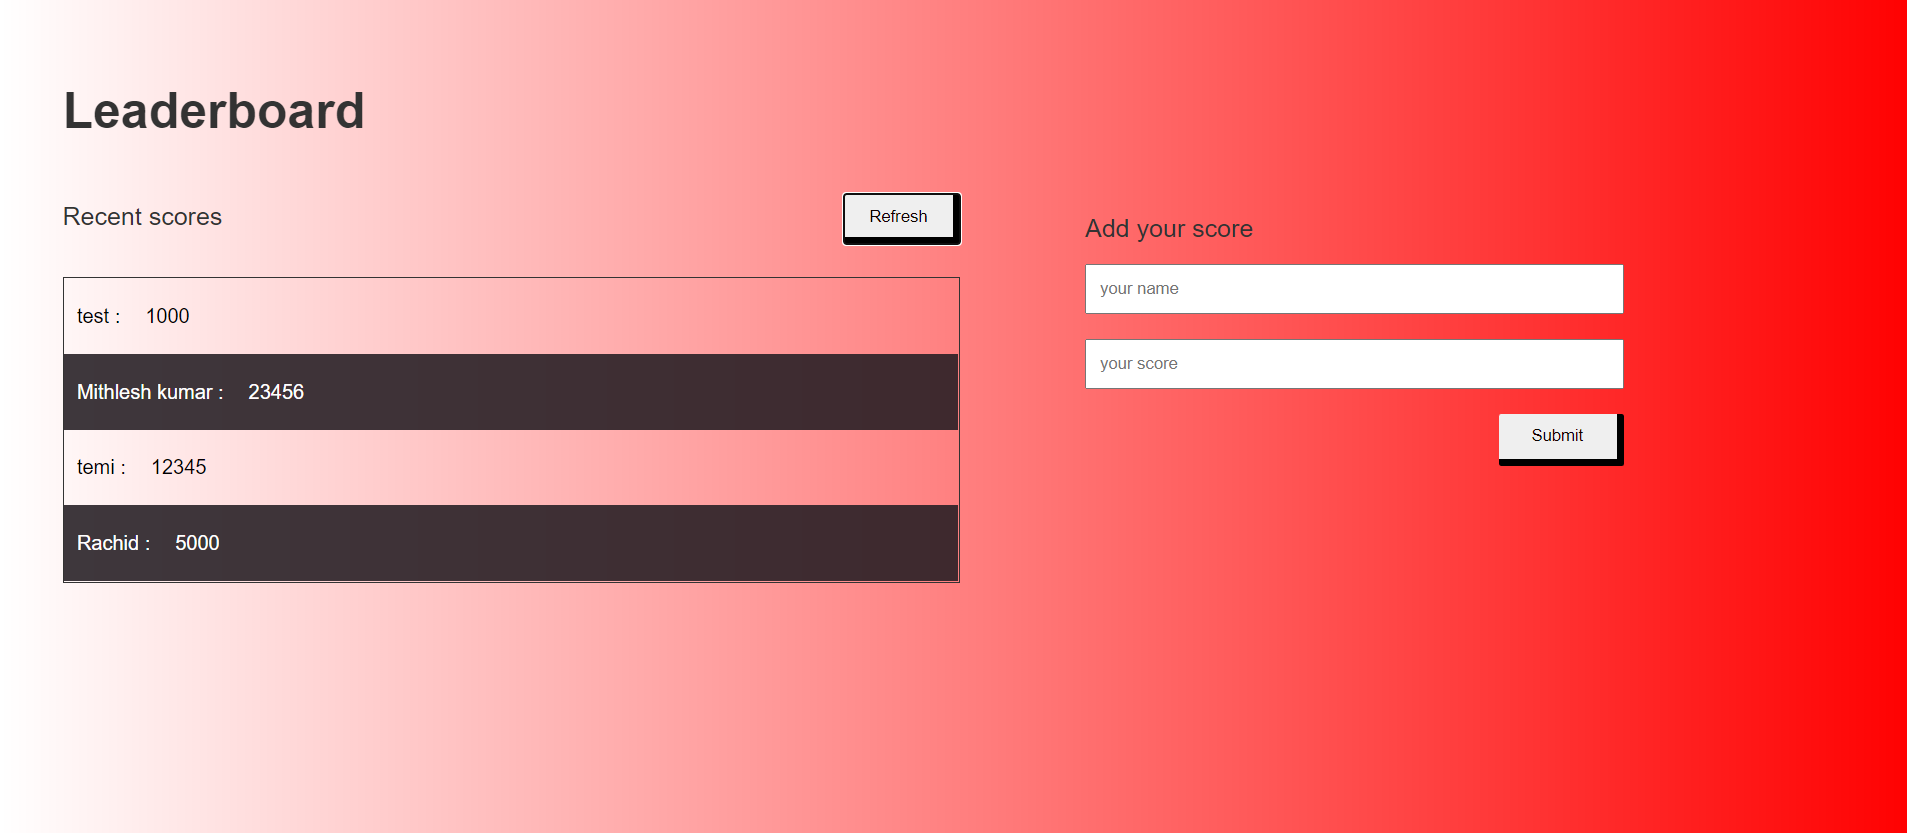
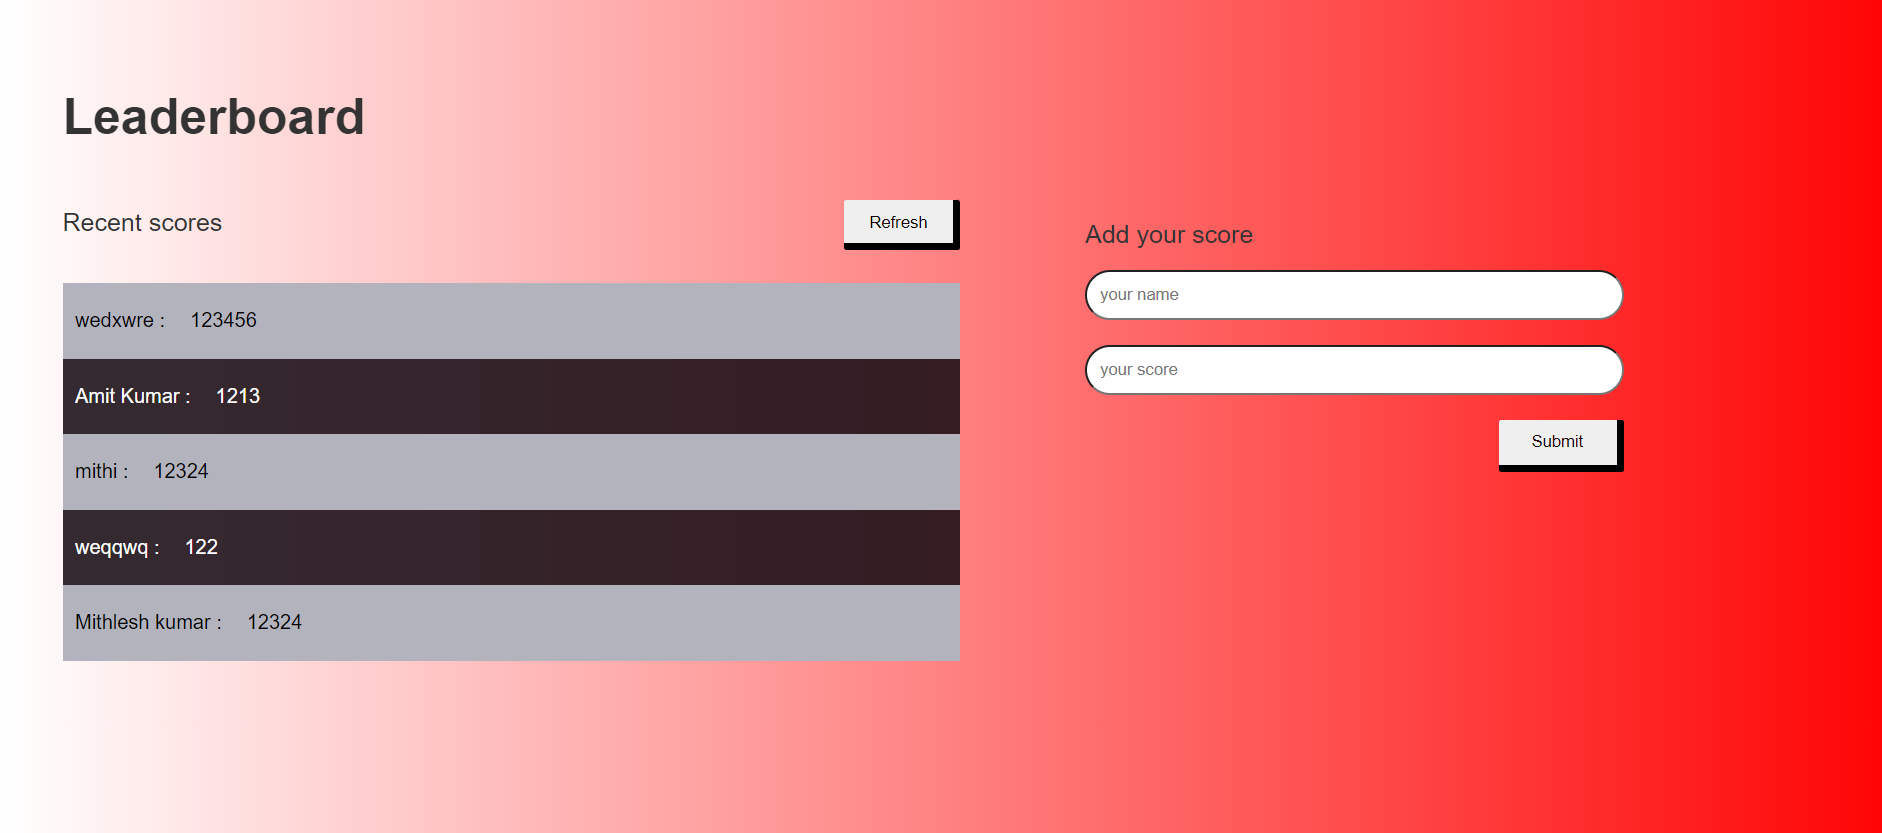
updated style

diff --git a/dist/main.js b/dist/main.js
@@ -16,7 +16,7 @@
 /***/ ((module, __webpack_exports__, __webpack_require__) => {
 
 "use strict";
-eval("__webpack_require__.r(__webpack_exports__);\n/* harmony export */ __webpack_require__.d(__webpack_exports__, {\n/* harmony export */   \"default\": () => (__WEBPACK_DEFAULT_EXPORT__)\n/* harmony export */ });\n/* harmony import */ var _node_modules_css_loader_dist_runtime_noSourceMaps_js__WEBPACK_IMPORTED_MODULE_0__ = __webpack_require__(/*! ../node_modules/css-loader/dist/runtime/noSourceMaps.js */ \"./node_modules/css-loader/dist/runtime/noSourceMaps.js\");\n/* harmony import */ var _node_modules_css_loader_dist_runtime_noSourceMaps_js__WEBPACK_IMPORTED_MODULE_0___default = /*#__PURE__*/__webpack_require__.n(_node_modules_css_loader_dist_runtime_noSourceMaps_js__WEBPACK_IMPORTED_MODULE_0__);\n/* harmony import */ var _node_modules_css_loader_dist_runtime_api_js__WEBPACK_IMPORTED_MODULE_1__ = __webpack_require__(/*! ../node_modules/css-loader/dist/runtime/api.js */ \"./node_modules/css-loader/dist/runtime/api.js\");\n/* harmony import */ var _node_modules_css_loader_dist_runtime_api_js__WEBPACK_IMPORTED_MODULE_1___default = /*#__PURE__*/__webpack_require__.n(_node_modules_css_loader_dist_runtime_api_js__WEBPACK_IMPORTED_MODULE_1__);\n// Imports\n\n\nvar ___CSS_LOADER_EXPORT___ = _node_modules_css_loader_dist_runtime_api_js__WEBPACK_IMPORTED_MODULE_1___default()((_node_modules_css_loader_dist_runtime_noSourceMaps_js__WEBPACK_IMPORTED_MODULE_0___default()));\n___CSS_LOADER_EXPORT___.push([module.id, \"@import url(https://fonts.googleapis.com/css2?family=Inter:wght@100&family=Lato:ital,wght@0,100;0,300;0,400;0,700;1,100&family=Poppins:ital,wght@0,200;0,300;0,400;0,500;0,700;1,600&display=swap);\"]);\n// Module\n___CSS_LOADER_EXPORT___.push([module.id, \"html {\\r\\n  box-sizing: border-box;\\r\\n}\\r\\n\\r\\nbody {\\r\\n  margin: 0;\\r\\n  padding: 0;\\r\\n  font-family: 'Roboto', sans-serif;\\r\\n  background-image:\\r\\n    linear-gradient(\\r\\n       to right,\\r\\n     rgba(255, 0, 0, 0),\\r\\n     rgba(255, 0, 0, 1)\\r\\n    );\\r\\n}\\r\\n\\r\\nsection {\\r\\n  display: grid;\\r\\n  margin: 50px;\\r\\n  grid-template-columns: 1fr;\\r\\n}\\r\\n\\r\\n.btn {\\r\\n  border-radius: 2px;\\r\\n  border: none;\\r\\n  color: rgb(15, 1, 1);\\r\\n  border-right: 6px solid black;\\r\\n  border-bottom: 6px solid black;\\r\\n}\\r\\n\\r\\nform .btn {\\r\\n  width: 100px;\\r\\n  padding: 10px;\\r\\n  align-self: flex-end;\\r\\n  text-align: center;\\r\\n}\\r\\n\\r\\n.btn:hover {\\r\\n  background-color: rgb(134, 150, 118);\\r\\n  transform: scale(1.3);\\r\\n}\\r\\n\\r\\n.score-display {\\r\\n  border: 1.5px solid #333;\\r\\n  margin-top: 20px;\\r\\n}\\r\\n\\r\\nsection .container {\\r\\n  display: flex;\\r\\n  gap: 100px;\\r\\n}\\r\\n\\r\\n.score-container {\\r\\n  display: flex;\\r\\n  flex-direction: column;\\r\\n  width: 50%;\\r\\n}\\r\\n\\r\\n.score-container h1 {\\r\\n  font-size: 40px;\\r\\n  font-weight: 570;\\r\\n  color: #333;\\r\\n}\\r\\n\\r\\n.score-container .title {\\r\\n  display: flex;\\r\\n  justify-content: space-between;\\r\\n}\\r\\n\\r\\nform input {\\r\\n  padding: 10px;\\r\\n}\\r\\n\\r\\n.title .btn {\\r\\n  height: 40px;\\r\\n  padding: 10px 20px;\\r\\n  margin-top: 10px;\\r\\n}\\r\\n\\r\\n.score-display ul {\\r\\n  display: flex;\\r\\n  flex-direction: column;\\r\\n  margin: 0;\\r\\n  padding: 0;\\r\\n  list-style-type: none;\\r\\n}\\r\\n\\r\\nli {\\r\\n  display: flex;\\r\\n  gap: 20px;\\r\\n  padding: 5px 10px;\\r\\n}\\r\\n\\r\\nli:nth-child(even) {\\r\\n  background: #241e23e1;\\r\\n  color: #fff;\\r\\n}\\r\\n\\r\\nsection .form-container {\\r\\n  margin-top: 122px;\\r\\n  width: 30%;\\r\\n}\\r\\n\\r\\nsection h2 {\\r\\n  font-size: 20px;\\r\\n  color: #333;\\r\\n  font-weight: 400;\\r\\n}\\r\\n\\r\\nsection form {\\r\\n  display: flex;\\r\\n  flex-direction: column;\\r\\n  gap: 20px;\\r\\n}\\r\\n\", \"\"]);\n// Exports\n/* harmony default export */ const __WEBPACK_DEFAULT_EXPORT__ = (___CSS_LOADER_EXPORT___);\n\n\n//# sourceURL=webpack://webpack-demo/./src/style.css?./node_modules/css-loader/dist/cjs.js");
+eval("__webpack_require__.r(__webpack_exports__);\n/* harmony export */ __webpack_require__.d(__webpack_exports__, {\n/* harmony export */   \"default\": () => (__WEBPACK_DEFAULT_EXPORT__)\n/* harmony export */ });\n/* harmony import */ var _node_modules_css_loader_dist_runtime_noSourceMaps_js__WEBPACK_IMPORTED_MODULE_0__ = __webpack_require__(/*! ../node_modules/css-loader/dist/runtime/noSourceMaps.js */ \"./node_modules/css-loader/dist/runtime/noSourceMaps.js\");\n/* harmony import */ var _node_modules_css_loader_dist_runtime_noSourceMaps_js__WEBPACK_IMPORTED_MODULE_0___default = /*#__PURE__*/__webpack_require__.n(_node_modules_css_loader_dist_runtime_noSourceMaps_js__WEBPACK_IMPORTED_MODULE_0__);\n/* harmony import */ var _node_modules_css_loader_dist_runtime_api_js__WEBPACK_IMPORTED_MODULE_1__ = __webpack_require__(/*! ../node_modules/css-loader/dist/runtime/api.js */ \"./node_modules/css-loader/dist/runtime/api.js\");\n/* harmony import */ var _node_modules_css_loader_dist_runtime_api_js__WEBPACK_IMPORTED_MODULE_1___default = /*#__PURE__*/__webpack_require__.n(_node_modules_css_loader_dist_runtime_api_js__WEBPACK_IMPORTED_MODULE_1__);\n// Imports\n\n\nvar ___CSS_LOADER_EXPORT___ = _node_modules_css_loader_dist_runtime_api_js__WEBPACK_IMPORTED_MODULE_1___default()((_node_modules_css_loader_dist_runtime_noSourceMaps_js__WEBPACK_IMPORTED_MODULE_0___default()));\n___CSS_LOADER_EXPORT___.push([module.id, \"@import url(https://fonts.googleapis.com/css2?family=Inter:wght@100&family=Lato:ital,wght@0,100;0,300;0,400;0,700;1,100&family=Poppins:ital,wght@0,200;0,300;0,400;0,500;0,700;1,600&display=swap);\"]);\n// Module\n___CSS_LOADER_EXPORT___.push([module.id, \"html {\\r\\n  box-sizing: border-box;\\r\\n}\\r\\n\\r\\nbody {\\r\\n  margin: 0;\\r\\n  padding: 0;\\r\\n  font-family: 'Roboto', sans-serif;\\r\\n  background-image:\\r\\n    linear-gradient(\\r\\n      to right,\\r\\n      rgba(255, 0, 0, 0),\\r\\n      rgba(255, 0, 0, 1)\\r\\n    );\\r\\n}\\r\\n\\r\\nsection {\\r\\n  display: grid;\\r\\n  margin: 50px;\\r\\n  grid-template-columns: 1fr;\\r\\n}\\r\\n\\r\\n.btn {\\r\\n  border-radius: 2px;\\r\\n  border: none;\\r\\n  color: rgb(15, 1, 1);\\r\\n  border-right: 6px solid black;\\r\\n  border-bottom: 6px solid black;\\r\\n}\\r\\n\\r\\nform .btn {\\r\\n  width: 100px;\\r\\n  padding: 10px;\\r\\n  align-self: flex-end;\\r\\n  text-align: center;\\r\\n}\\r\\n\\r\\n.btn:hover {\\r\\n  background-color: rgb(134, 150, 118);\\r\\n  transform: scale(1.3);\\r\\n}\\r\\n\\r\\n.score-display {\\r\\n  margin-top: 20px;\\r\\n}\\r\\n\\r\\nsection .container {\\r\\n  display: flex;\\r\\n  gap: 100px;\\r\\n}\\r\\n\\r\\n.score-container {\\r\\n  display: flex;\\r\\n  flex-direction: column;\\r\\n  width: 50%;\\r\\n}\\r\\n\\r\\n.score-container h1 {\\r\\n  font-size: 40px;\\r\\n  font-weight: 570;\\r\\n  color: #333;\\r\\n}\\r\\n\\r\\n.score-container .title {\\r\\n  display: flex;\\r\\n  justify-content: space-between;\\r\\n}\\r\\n\\r\\nform input {\\r\\n  padding: 10px;\\r\\n  border-radius: 20px;\\r\\n}\\r\\n\\r\\n.title .btn {\\r\\n  height: 40px;\\r\\n  padding: 10px 20px;\\r\\n  margin-top: 10px;\\r\\n}\\r\\n\\r\\n.score-display ul {\\r\\n  display: flex;\\r\\n  flex-direction: column;\\r\\n  margin: 0;\\r\\n  padding: 0;\\r\\n  list-style-type: none;\\r\\n}\\r\\n\\r\\nli {\\r\\n  display: flex;\\r\\n  gap: 20px;\\r\\n  padding: 5px 10px;\\r\\n}\\r\\n\\r\\nli:nth-child(odd) {\\r\\n  background: rgb(179, 179, 190);\\r\\n}\\r\\n\\r\\nli:nth-child(even) {\\r\\n  background: #1a0f17e1;\\r\\n  color: #fff;\\r\\n}\\r\\n\\r\\nsection .form-container {\\r\\n  margin-top: 122px;\\r\\n  width: 30%;\\r\\n}\\r\\n\\r\\nsection h2 {\\r\\n  font-size: 20px;\\r\\n  color: #333;\\r\\n  font-weight: 400;\\r\\n}\\r\\n\\r\\nsection form {\\r\\n  display: flex;\\r\\n  flex-direction: column;\\r\\n  gap: 20px;\\r\\n}\\r\\n\", \"\"]);\n// Exports\n/* harmony default export */ const __WEBPACK_DEFAULT_EXPORT__ = (___CSS_LOADER_EXPORT___);\n\n\n//# sourceURL=webpack://webpack-demo/./src/style.css?./node_modules/css-loader/dist/cjs.js");
 
 /***/ }),
 
@@ -125,7 +125,7 @@ eval("\n\n/* istanbul ignore next  */\nfunction styleTagTransform(css, styleElem
   \********************/
 /***/ ((module) => {
 
-eval("const url = 'https://us-central1-js-capstone-backend.cloudfunctions.net/api/games/WBvUTDoh47FFuK3CA1Ak/scores/';\nasync function getScores() {\n  const response = await fetch(url);\n  const data = await response.json();\n  return data.result;\n}\n\nasync function addScore(obj) {\n  const response = await fetch(url, {\n    method: 'POST',\n    headers: {\n      'Content-Type': 'application/json',\n    },\n    body: JSON.stringify(obj),\n  });\n  const data = await response.json();\n  return data.result;\n}\nmodule.exports = { getScores, addScore };\n\n\n//# sourceURL=webpack://webpack-demo/./src/api.js?");
+eval("const url = 'https://us-central1-js-capstone-backend.cloudfunctions.net/api/games/ XMJOy0iH4T6Wjm6GMYwE/scores/';\nasync function getScores() {\n  const response = await fetch(url);\n  const data = await response.json();\n  return data.result;\n}\n\nasync function addScore(obj) {\n  const response = await fetch(url, {\n    method: 'POST',\n    headers: {\n      'Content-Type': 'application/json',\n    },\n    body: JSON.stringify(obj),\n  });\n  const data = await response.json();\n  return data.result;\n}\nmodule.exports = { getScores, addScore };\n\n\n//# sourceURL=webpack://webpack-demo/./src/api.js?");
 
 /***/ }),
 
@@ -136,7 +136,7 @@ eval("const url = 'https://us-central1-js-capstone-backend.cloudfunctions.net/ap
 /***/ ((__unused_webpack_module, __webpack_exports__, __webpack_require__) => {
 
 "use strict";
-eval("__webpack_require__.r(__webpack_exports__);\n/* harmony import */ var _style_css__WEBPACK_IMPORTED_MODULE_0__ = __webpack_require__(/*! ./style.css */ \"./src/style.css\");\n/* harmony import */ var _table_js__WEBPACK_IMPORTED_MODULE_1__ = __webpack_require__(/*! ./table.js */ \"./src/table.js\");\n/* harmony import */ var _api_js__WEBPACK_IMPORTED_MODULE_2__ = __webpack_require__(/*! ./api.js */ \"./src/api.js\");\n/* harmony import */ var _api_js__WEBPACK_IMPORTED_MODULE_2___default = /*#__PURE__*/__webpack_require__.n(_api_js__WEBPACK_IMPORTED_MODULE_2__);\n\n\n\n\nconst btn = document.querySelector('.btn-primary');\n\nasync function render() {\n  const array = await (0,_api_js__WEBPACK_IMPORTED_MODULE_2__.getScores)();\n  (0,_table_js__WEBPACK_IMPORTED_MODULE_1__[\"default\"])(array);\n}\nrender();\n\nbtn.addEventListener('click', async () => {\n  const user = document.querySelector('#name').value;\n  const score = Number(document.querySelector('#score').value);\n  const obj = { user, score };\n\n  (0,_api_js__WEBPACK_IMPORTED_MODULE_2__.addScore)(obj);\n  document.querySelector('#name').value = '';\n  document.querySelector('#score').value = '';\n});\n\ndocument.querySelector('.btn-success').addEventListener('click', render);\n\n\n//# sourceURL=webpack://webpack-demo/./src/index.js?");
+eval("__webpack_require__.r(__webpack_exports__);\n/* harmony import */ var _style_css__WEBPACK_IMPORTED_MODULE_0__ = __webpack_require__(/*! ./style.css */ \"./src/style.css\");\n/* harmony import */ var _table_js__WEBPACK_IMPORTED_MODULE_1__ = __webpack_require__(/*! ./table.js */ \"./src/table.js\");\n/* harmony import */ var _api_js__WEBPACK_IMPORTED_MODULE_2__ = __webpack_require__(/*! ./api.js */ \"./src/api.js\");\n/* harmony import */ var _api_js__WEBPACK_IMPORTED_MODULE_2___default = /*#__PURE__*/__webpack_require__.n(_api_js__WEBPACK_IMPORTED_MODULE_2__);\n\n\n\n\nconst btn = document.querySelector('.btn-primary');\n\nasync function render() {\n  const array = await (0,_api_js__WEBPACK_IMPORTED_MODULE_2__.getScores)();\n  (0,_table_js__WEBPACK_IMPORTED_MODULE_1__[\"default\"])(array);\n}\nrender();\n\nbtn.addEventListener('click', () => {\n  const user = document.querySelector('#name').value;\n  const score = Number(document.querySelector('#score').value);\n  const obj = { user, score };\n  (0,_api_js__WEBPACK_IMPORTED_MODULE_2__.addScore)(obj);\n  document.querySelector('#name').value = '';\n  document.querySelector('#score').value = '';\n});\n\ndocument.querySelector('.btn-success').addEventListener('click', render);\n\n\n//# sourceURL=webpack://webpack-demo/./src/index.js?");
 
 /***/ }),
 
@@ -147,7 +147,7 @@ eval("__webpack_require__.r(__webpack_exports__);\n/* harmony import */ var _sty
 /***/ ((__unused_webpack_module, __webpack_exports__, __webpack_require__) => {
 
 "use strict";
-eval("__webpack_require__.r(__webpack_exports__);\n/* harmony export */ __webpack_require__.d(__webpack_exports__, {\n/* harmony export */   \"default\": () => (__WEBPACK_DEFAULT_EXPORT__)\n/* harmony export */ });\n/* harmony default export */ const __WEBPACK_DEFAULT_EXPORT__ = ((data) => {\n  const scores = document.querySelector('.score-display');\n  const ul = scores.firstElementChild;\n  ul.innerHTML = '';\n  data.forEach((info) => {\n    ul.innerHTML += `<li>\n      <p>${info.user} :</p>\n      <p>${info.score}</p>\n    </li>`;\n  });\n});\n\n\n//# sourceURL=webpack://webpack-demo/./src/table.js?");
+eval("__webpack_require__.r(__webpack_exports__);\n/* harmony export */ __webpack_require__.d(__webpack_exports__, {\n/* harmony export */   \"default\": () => (__WEBPACK_DEFAULT_EXPORT__)\n/* harmony export */ });\n/* harmony default export */ const __WEBPACK_DEFAULT_EXPORT__ = ((data) => {\r\n  const scores = document.querySelector('.score-display');\r\n  const ul = scores.firstElementChild;\r\n  ul.innerHTML = '';\r\n  data.forEach((info) => {\r\n    ul.innerHTML += `<li>\r\n      <p>${info.user} :</p>\r\n      <p>${info.score}</p>\r\n    </li>`;\r\n  });\r\n});\r\n\n\n//# sourceURL=webpack://webpack-demo/./src/table.js?");
 
 /***/ })
 

diff --git a/src/style.css b/src/style.css
@@ -43,7 +43,6 @@ form .btn {
 }
 
 .score-display {
-  border: 1.5px solid #333;
   margin-top: 20px;
 }
 
@@ -71,6 +70,7 @@ section .container {
 
 form input {
   padding: 10px;
+  border-radius: 20px;
 }
 
 .title .btn {
@@ -93,8 +93,12 @@ li {
   padding: 5px 10px;
 }
 
+li:nth-child(odd) {
+  background: rgb(179, 179, 190);
+}
+
 li:nth-child(even) {
-  background: #241e23e1;
+  background: #1a0f17e1;
   color: #fff;
 }
 

diff --git a/src/index.js b/src/index.js
@@ -10,11 +10,10 @@ async function render() {
 }
 render();
 
-btn.addEventListener('click', async () => {
+btn.addEventListener('click', () => {
   const user = document.querySelector('#name').value;
   const score = Number(document.querySelector('#score').value);
   const obj = { user, score };
-
   addScore(obj);
   document.querySelector('#name').value = '';
   document.querySelector('#score').value = '';

diff --git a/src/api.js b/src/api.js
@@ -1,4 +1,4 @@
-const url = 'https://us-central1-js-capstone-backend.cloudfunctions.net/api/games/WBvUTDoh47FFuK3CA1Ak/scores/';
+const url = 'https://us-central1-js-capstone-backend.cloudfunctions.net/api/games/ XMJOy0iH4T6Wjm6GMYwE/scores/';
 async function getScores() {
   const response = await fetch(url);
   const data = await response.json();

diff --git a/README.md b/README.md
@@ -15,7 +15,7 @@
 -Javascript
 -Leaderboard API
 ## Live Demo
-[Live Demo Link](https://mithi-code.github.io/leaderboard/)
+[Live Demo Link](https://mithi-code.github.io/leaderboard/dist)
 ## Getting Started
 To get a local copy up and running, follow the steps in Setup below.
 ### Prerequisites
